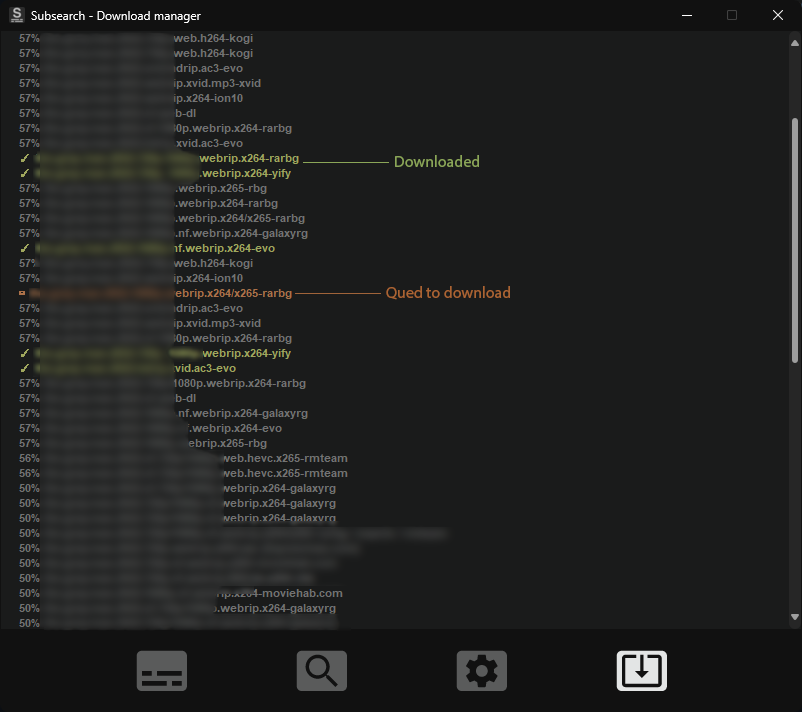
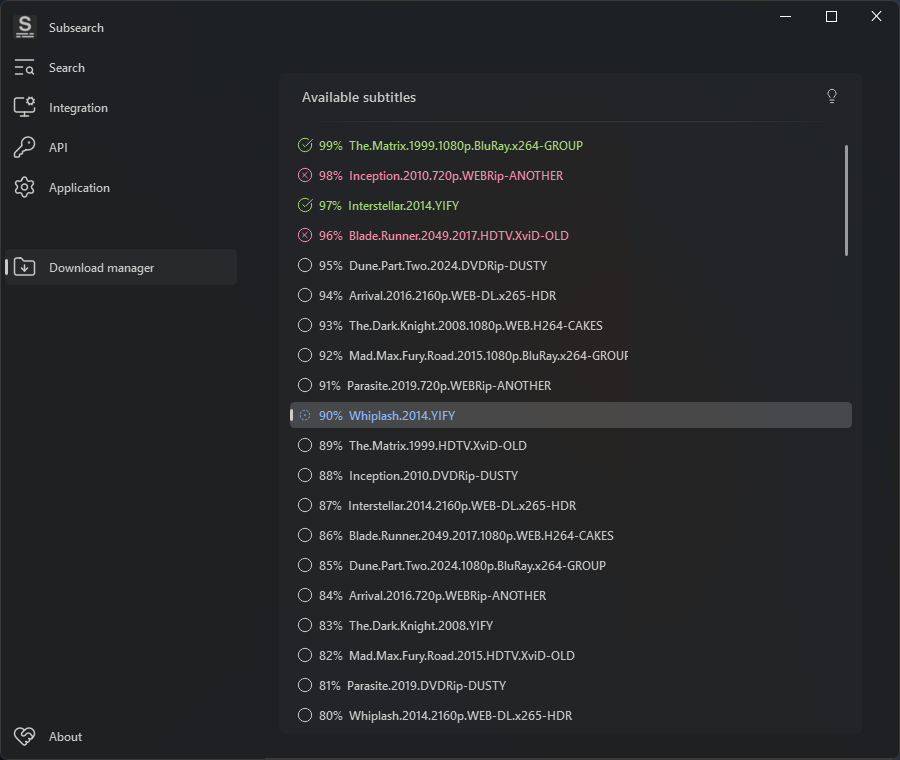
docs(readme): refresh screenshots and clean up links
Replace old asset screenshots with new tab-based ones (search,
integration, api, application, about); update download_manager.png.
Clean up two hyperlinks to use descriptive anchor text instead of
bare "here".

fix(ui): apply completer menu style on first open

Changed region(s): [[0.0, 0.0, 1.0, 1.0], [0.904, 0.0, 0.9352, 0.0309]]

diff --git a/src/subsearch/ui/widgets/setting_rows.py b/src/subsearch/ui/widgets/setting_rows.py
@@ -218,6 +218,7 @@ class SearchableComboBox(EditableComboBox):
         self._filter_proxy.setFilterFixedString(self.text())
         if self._completerMenu is None:
             self.setCompleterMenu(CompleterMenu(self))
+            style_dropdown_menu(self._completerMenu, "completerListWidget")
         self.completer().setCompletionPrefix("")
         changed = self._completerMenu.setCompletion(
             self.completer().completionModel(), self.completer().completionColumn()

diff --git a/README.md b/README.md
@@ -56,13 +56,17 @@ Subsearch is an automated subtitle downloader and extractor with support for man
 <details>
 <summary>Screenshots of the interface</summary>
 
-![prtsc_language](https://github.com/vagabondHustler/subsearch/blob/main/assets/language_options.png?raw=true)
+![search](https://github.com/vagabondHustler/subsearch/blob/main/assets/search.png?raw=true)
 
-![prtsc_search](https://github.com/vagabondHustler/subsearch/blob/main/assets/search_filters.png?raw=true)
+![integration](https://github.com/vagabondHustler/subsearch/blob/main/assets/integration.png?raw=true)
 
-![prtsc_settings](https://github.com/vagabondHustler/subsearch/blob/main/assets/subsearch_options.png?raw=true)
+![api](https://github.com/vagabondHustler/subsearch/blob/main/assets/api.png?raw=true)
 
-![prtsc_download](https://github.com/vagabondHustler/subsearch/blob/main/assets/download_manager.png?raw=true)
+![application](https://github.com/vagabondHustler/subsearch/blob/main/assets/application.png?raw=true)
+
+![download_manager](https://github.com/vagabondHustler/subsearch/blob/main/assets/download_manager.png?raw=true)
+
+![about](https://github.com/vagabondHustler/subsearch/blob/main/assets/about.png?raw=true)
 
 </details>
 
@@ -85,7 +89,7 @@ Subsearch is an automated subtitle downloader and extractor with support for man
 
 Requires windows 10/11, probably works on 8.
 
-- Download the windows installer "Subsearch-x.x.x-win64.msi" from [here](https://github.com/vagabondHustler/subsearch/releases).
+- Download the windows installer from the [Subsearch releases page](https://github.com/vagabondHustler/subsearch/releases).
 - Run the installer.
 - If you receive a PUA message, click "More info" → "Run anyway".
 - Run Subsearch at least once for all the context menu options to appear
@@ -103,7 +107,7 @@ Requires windows 10/11, probably works on 8.
 
 </details>
 
-More about potentially unwanted applications (PUA) can be found [here](https://support.microsoft.com/en-us/windows/protect-your-pc-from-potentially-unwanted-applications-c7668a25-174e-3b78-0191-faf0607f7a6e) on Microsoft's support page.
+More about potentially unwanted applications (PUA) can be found on [Microsoft's support page](https://support.microsoft.com/en-us/windows/protect-your-pc-from-potentially-unwanted-applications-c7668a25-174e-3b78-0191-faf0607f7a6e).
 
 ## Acknowledgements<a name = "thanks"></a>
 